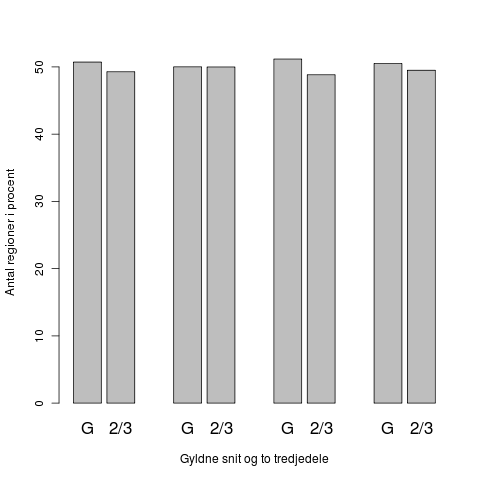
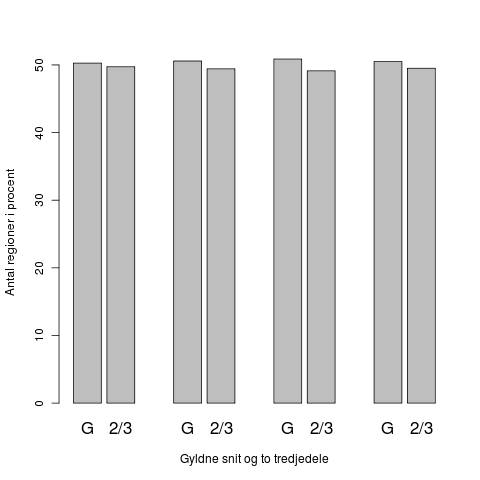
start på udvidet samt grafer

diff --git a/doc/rapport/afsnit/resultater/udvidet.tex b/doc/rapport/afsnit/resultater/udvidet.tex
@@ -1,0 +1,70 @@
+\subsection{Resultater}
+Vi har kørt vores analyse på $524$ malerier, ud af vores datasæt på
+$14,375$ malerier. Det svare til at $3.65 \%$ af datasættet er
+gemmenløsbet. Siden vores datasæt bliver gemmenløbet alfabetisk efter
+kunstnerns navn, er resultaterne, fra kunstner med efternavn startene med A
+og B.
+
+
+I graf \ref{antal_regioner_vertikale_cut_udvidet} er der afbilledet,
+antale sammelet regioner i de 20 vertikale snit for helle datasættet.
+Som man kan se er der fundet makant flere regioner i de to snit som
+ligger tættest på miden, og færest ud i kanterne. 
+
+\begin{figure}[h!]
+	\begin{center}
+		\includegraphics[width=0.9\textwidth]{afsnit/resultater/billeder/cut0cut1eatsperratioU.png}
+	\end{center}
+	\caption{Antal regioner i hvert af de 20 vertikale snit}
+	\label{antal_regioner_vertikale_cut_udvidet}
+\end{figure}
+
+I graf \ref{antal_regioner_horisontale_cut_udvidet} er der samme
+afbildning lavet, bare i det hoisontale plan, med venster side af grafen
+svare til toppen af billedet. I denne graf er det 72,82 som peaker. Fra
+52 og ned af, falder antal regioner gradvis. hvor i mod fra 52 og op gå
+grafen lidt op og lidt ned. Kanterne er igen klart de lavest i grafen.
+
+\begin{figure}[h!]
+	\begin{center}
+		\includegraphics[width=0.9\textwidth]{afsnit/resultater/billeder/cut2cut3eatsperratioU.png}
+	\end{center}
+	\caption{Antal regioner i hvert af de 20 horisontale snit, hvor venstre side af grafen repræsentere øverst del af malerierne}
+	\label{antal_regioner_horisontale_cut_udvidet}
+\end{figure}
+
+Ud fra disse observationer kan vi konkludere at der ikke er flere
+regioner i det gyldne snit, en midden af billedet, og kan derfor
+forkaste hypotese \ref{hypo_alle_andre_snit} og \ref{hypo_midten}.
+
+I graf \ref{G_vs_to_trejedele_udvidet}, er de fire gyldne snit, samt
+$\frac{2}{3}$ representeret. Som man kan se der ikke nogen entydighed på
+hvad for et ration, der er dominerne, så vi kan forkaste hyptese
+\ref{hypo_to_tredjedele}.
+
+\begin{figure}[h!]
+	\begin{center}
+		\includegraphics[width=0.6\textwidth]{afsnit/resultater/billeder/G_vs_to_tredjedeleU.png}
+	\end{center}
+	\caption{Procent vis antal regioner i de fire gyldne snit og deres tilhørene $\frac{2}{3}$ snit}
+	\label{G_vs_to_trejedele_udvidet}
+\end{figure}
+
+\begin{table}[!h]
+    \centering
+    \begin{tabular}{|l|c|c|}
+        \hline
+            & Afvist & Ikke afvist  \\\hline
+        1   &            &    \\\hline
+        2   &            &    \\\hline
+        3   &  			 &              \\\hline
+        4   & \checkmark &              \\\hline
+        5   & \checkmark &    	\\\hline
+        6   & \checkmark &              \\\hline
+        7   &            &              \\\hline
+        8   &            &              \\\hline
+        9   &            & 	\\\hline
+    \end{tabular}
+    \caption[]{Hypoteser i forhold til den udvidet kørsel.}
+    \label{hypoteser_udvidet}
+\end{table}

diff --git a/doc/rapport/afsnit/resultater/parser.py b/doc/rapport/afsnit/resultater/parser.py
@@ -1,14 +1,14 @@
 def main():
-	yerfile = open("yers_snits.txt")
+	yerfile = open("yers_snitsU.txt")
 	lines = yerfile.readlines()[0]
 	#print lines
 	lines = lines.split(")")
 	lines.pop(16)
 	size = len(lines)
-	newfile0 = open('csv/yearcut0.csv' , 'w' )
-	newfile1 = open('csv/yearcut1.csv' , 'w' )
-	newfile2 = open('csv/yearcut2.csv' , 'w' )
-	newfile3 = open('csv/yearcut3.csv' , 'w' )
+	newfile0 = open('csv/yearcut0U.csv' , 'w' )
+	newfile1 = open('csv/yearcut1U.csv' , 'w' )
+	newfile2 = open('csv/yearcut2U.csv' , 'w' )
+	newfile3 = open('csv/yearcut3U.csv' , 'w' )
 	newfile0.write("\"ratios\",\"interessante regioner\"\n")
 	newfile1.write("\"ratios\",\"interessante regioner\"\n")
 	newfile2.write("\"ratios\",\"interessante regioner\"\n")

diff --git a/doc/rapport/afsnit/resultater/naiv.tex b/doc/rapport/afsnit/resultater/naiv.tex
@@ -12,6 +12,7 @@ Denne margin skal være tilstede på begge sider af et snit, så derfor vil
 hvert snit fylde $(2.4*2)\%$.
 Det maksimale antal af snit på et billede må altså være
 $100/4.8=20.833$. Hvilket ses på denne figur \ref{snitogmargin}
+
 \begin{figure}[ht]
 	\begin{center}
 		\includegraphics[scale=0.3]{afsnit/resultater/billeder/20_cuts_med_margin}
@@ -19,6 +20,7 @@ $100/4.8=20.833$. Hvilket ses på denne figur \ref{snitogmargin}
 	\caption{Sort:snittene, grøn: margins og rød er midten}
 	\label{snitogmargin}
 \end{figure}
+
 Yderpunkterne $0.958$ og $0.518$ er problematiske, $0.958$'s margin
 løber udover billedet, dvs. at den ren principielt går glip af at
 detektere en masse interessante regioner.

diff --git a/doc/rapport/afsnit/resultater/resultater.tex b/doc/rapport/afsnit/resultater/resultater.tex
@@ -13,8 +13,10 @@ observationer vedrørende kunstneres oprindelse eller fødselsår.
 \input{afsnit/resultater/naiv.tex}
 \clearpage
 
-\section{flere resultater}
 \input{afsnit/resultater/kasper_er_gud.tex}
+
+\section{Udvidet implementation\label{section_udvidet_koersel}}
+\input{afsnit/resultater/udvidet.tex}
 
 \section*{Opsummering}
 Dette kapitel har præsenteret resultaterne fra to analyser på vores

diff --git a/doc/rapport/afsnit/resultater/kasper_er_gud.tex b/doc/rapport/afsnit/resultater/kasper_er_gud.tex
@@ -1,6 +1,3 @@
-Det må man sige at han er, og derfor er der ikke nogle grund til at lave
-rastte af resultaterne da han bare kan ændre på virkeligheden.
-
 Vi har køre vores naive algoritme på 20 snit i det horisontale og
 vertikale plan og kommer frem til to grafer over summeringen af alle
 regioner fundet i vært snit. 
